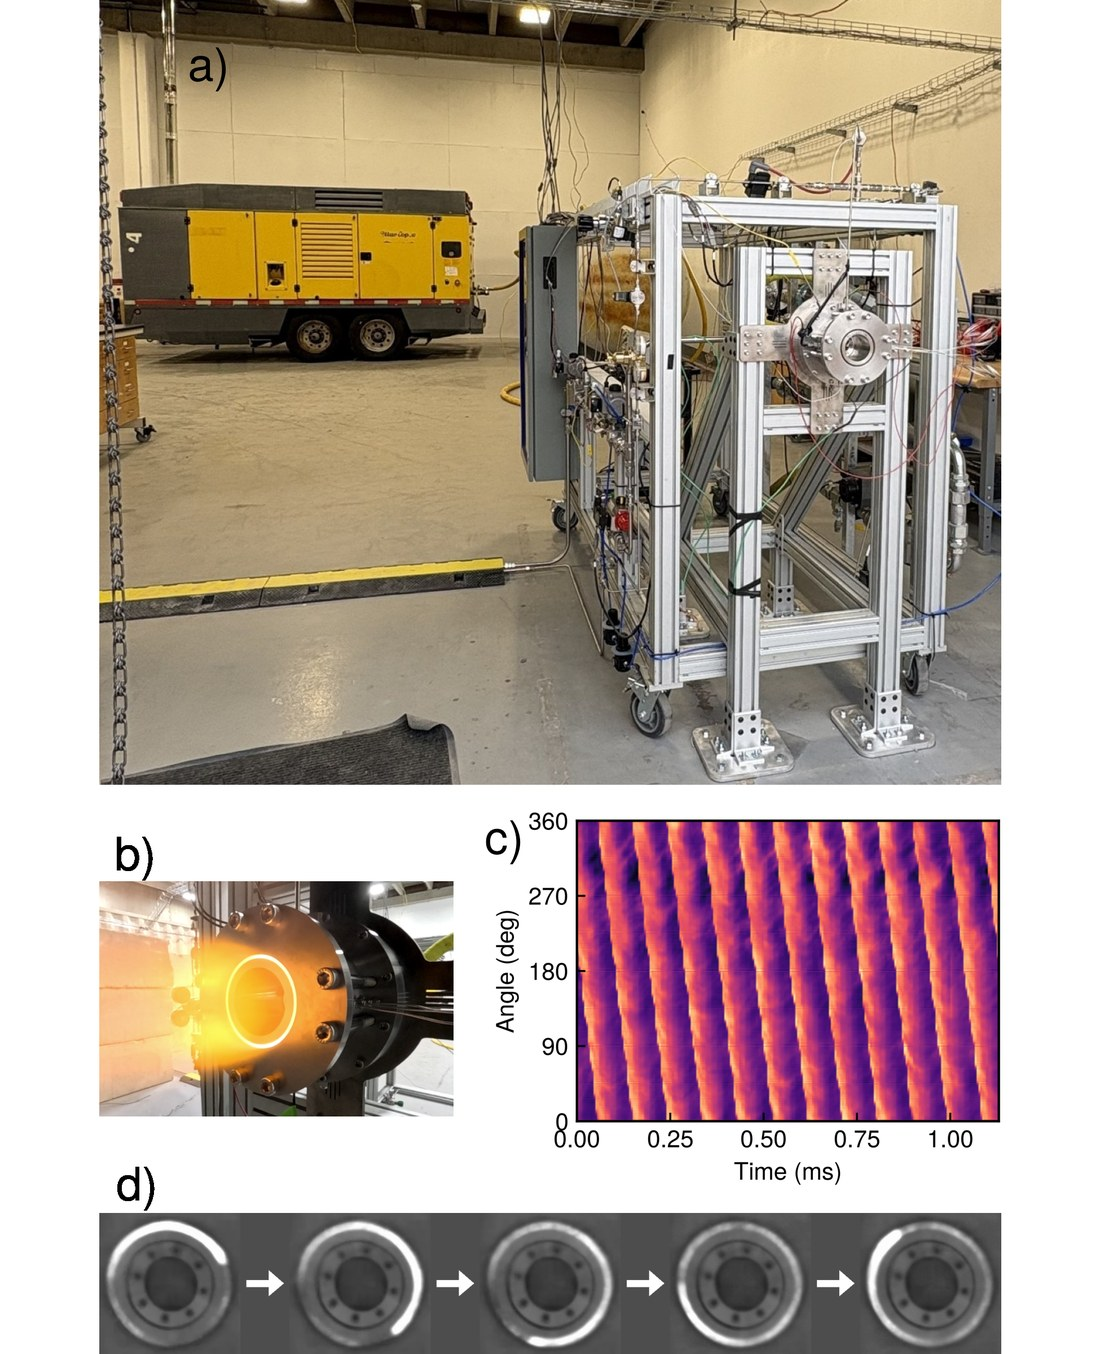
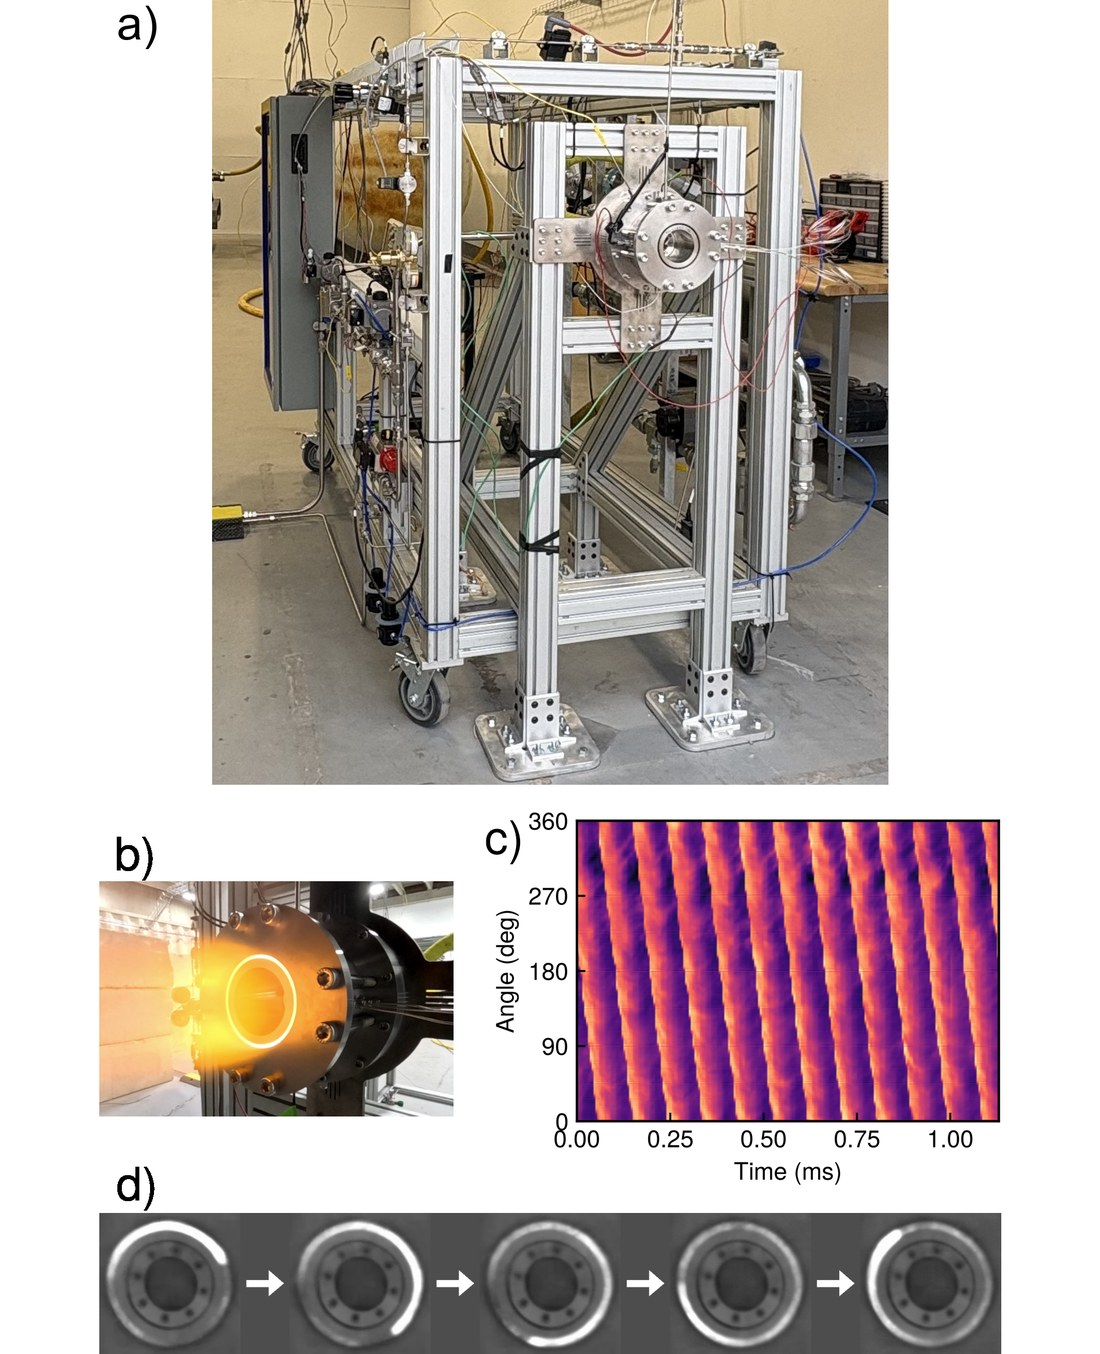
Use cropped test-stand photo for Facilities figure panel (a)
Panel (a) is now a tight crop of the HADES stand alone, centred in the
same band with its label moved to the margin like b) and d). The
compressor is out of frame, so drop "air supply" from the caption and
alt text.

diff --git a/scripts/build_facility_figure.py b/scripts/build_facility_figure.py
@@ -10,10 +10,13 @@ path.
                                                        # with panel guides
 
 The master is `scripts/figures/facility_overview_master.png`, a 1950x2400
-lossless copy of the four-panel figure with the air compressor's model
-number already painted out. Work from it rather than from the copy in the
-NSF CAREER folder: that original still carries the model number, and it must
-not end up in this repo, which is public.
+lossless copy of the four-panel figure. Panel (a) is a tight crop of the
+test stand alone (portrait, centred in the band, with its "a)" label in the
+left margin like b) and d)). The earlier wide shot also showed the air
+compressor, whose model number had to be painted out. Work from this master
+rather than from the copy in the NSF CAREER folder: that original still
+carries the model number, and it must not end up in this repo, which is
+public.
 
 Panel boundaries in master pixels, measured from the white gutters
 (left, top, right, bottom) -- see PANELS below. Panels (b) and (c) sit side
@@ -57,7 +60,7 @@ MASTER = os.path.join(HERE, "figures", "facility_overview_master.png")
 OUT = os.path.join(ROOT, "assets", "img", "research", "facility_overview.jpg")
 
 PANELS = {
-    "a  test stand": (176, 0, 1774, 1390),
+    "a  test stand": (376, 0, 1574, 1390),
     "b  hot fire": (176, 1483, 803, 2030),
     "c  wave map": (861, 1442, 1773, 2100),
     "d  high-speed": (176, 2150, 1774, 2399),

diff --git a/_research/5_facilities.md b/_research/5_facilities.md
@@ -13,8 +13,8 @@ mode: dark
 <!-- Top section -->
 <div class="research-detail-top">
   <div class="research-detail-top__figure">
-    <img src="/assets/img/research/facility_overview.jpg" alt="Four views of the lab: the HADES rotating detonation engine test stand and air supply in the high bay, the engine during a hot fire, a wave angle versus time map of the detonation, and a high-speed image sequence of the wave circling the annulus">
-    <p class="research-detail-caption"><i>(a) The HADES test stand and air supply in the high bay. (b) The engine during a hot fire. (c) Detonation wave angle against time, showing a stable single wave. (d) High-speed imaging of the wave circling the annulus.</i></p>
+    <img src="/assets/img/research/facility_overview.jpg" alt="Four views of the lab: the HADES rotating detonation engine test stand in the high bay, the engine during a hot fire, a wave angle versus time map of the detonation, and a high-speed image sequence of the wave circling the annulus">
+    <p class="research-detail-caption"><i>(a) The HADES test stand in the high bay. (b) The engine during a hot fire. (c) Detonation wave angle against time, showing a stable single wave. (d) High-speed imaging of the wave circling the annulus.</i></p>
   </div>
 
   <div class="research-detail-top__text">
